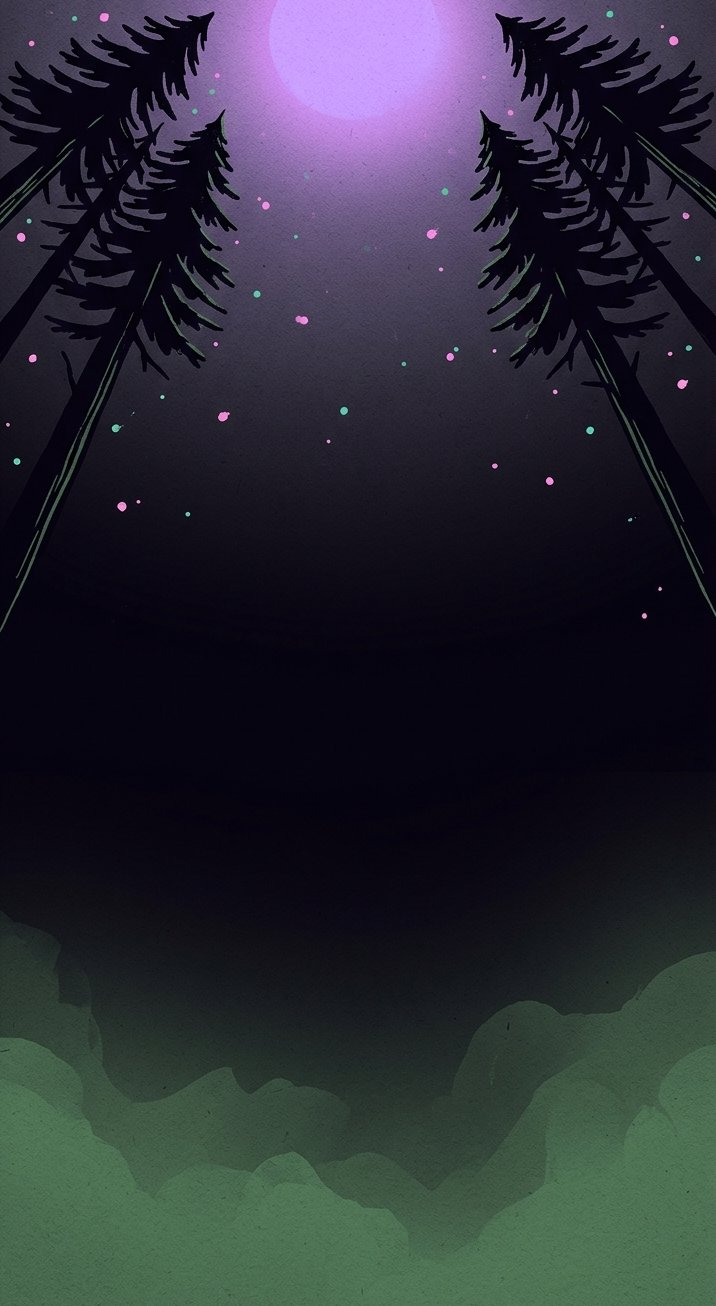
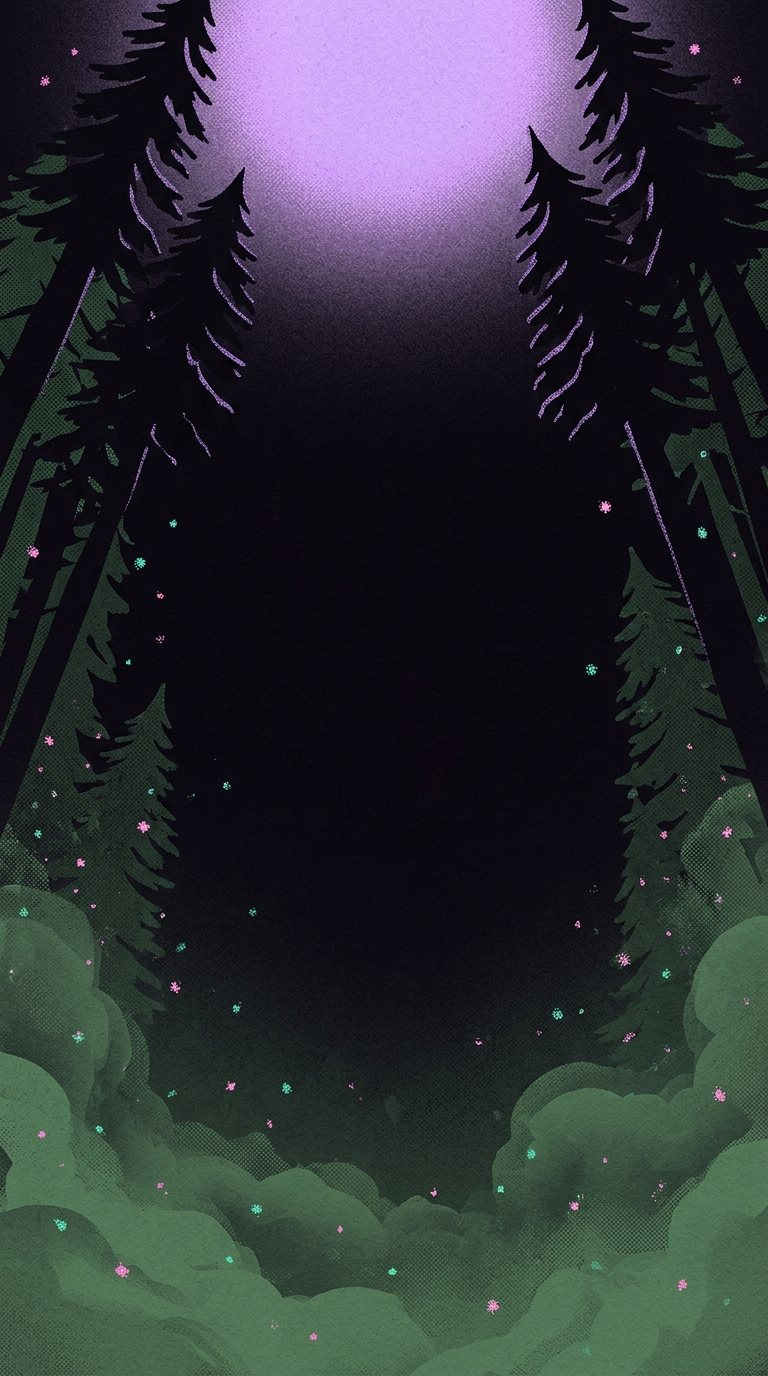
Add files via upload

diff --git a/index.html b/index.html
@@ -83,7 +83,7 @@
 
   .page { width: 100%; max-width: 440px; text-align: center; position: relative; z-index: 1; }
 
-  .vines { width: 100%; height: 46px; margin-bottom: 4px; opacity: 0.7; }
+  .vines { width: 100%; height: 46px; margin-bottom: 4px; opacity: 0.45; }
 
   /* ---------- centerpiece ---------- */
   .orb { position: relative; width: 168px; height: 168px; margin: 0 auto 20px; }
@@ -101,7 +101,6 @@
     animation: breathe 6s ease-in-out infinite;
   }
   .avatar img { width: 100%; height: 100%; object-fit: cover; }
-  .sigil { width: 74%; height: 74%; }
   @keyframes spin { to { transform: rotate(360deg); } }
   @keyframes breathe { 0%, 100% { box-shadow: inset 0 0 0 1px rgba(255,194,236,0.35), 0 0 30px 4px rgba(164,91,255,0.30), 0 10px 28px rgba(0,0,0,0.55); }
                        50% { box-shadow: inset 0 0 0 1px rgba(255,194,236,0.55), 0 0 46px 10px rgba(255,143,214,0.32), 0 10px 28px rgba(0,0,0,0.55); } }
@@ -142,7 +141,7 @@
     flex-shrink: 0; width: 52px; height: 52px; border-radius: 14px;
     display: flex; flex-direction: column; align-items: center; justify-content: center;
     background: rgba(63,107,74,0.35); border: 1px solid rgba(143,255,176,0.25);
-    font-size: 10px; font-weight: 700; letter-spacing: 0.12em; color: #a8ffc4; line-height: 1.3;
+    font-size: 13px; font-weight: 700; letter-spacing: 0.12em; color: #a8ffc4; line-height: 1.3;
   }
   .show .what { flex: 1; min-width: 0; }
   .show .kicker { display: block; font-size: 11px; font-weight: 700; letter-spacing: 0.16em; color: var(--electric); }
@@ -170,10 +169,13 @@
   a.link-card:hover .arrow { transform: translateX(4px); opacity: 0.9; }
 
   /* ---------- flyer art ---------- */
-  .flyer { display: block; margin: 26px auto 0; padding: 10px; text-decoration: none; transform: rotate(-1.5deg); transition: transform 0.3s ease; }
-  .flyer:hover { transform: rotate(0deg) scale(1.01); }
-  .flyer img { display: block; width: 100%; border-radius: 10px; }
-  .flyer span { display: block; margin-top: 8px; font-family: var(--sans); font-size: 11px; letter-spacing: 0.16em; text-transform: uppercase; color: var(--text-sub); }
+  .flyer { display: flex; align-items: center; gap: 14px; margin: 22px 0 0; padding: 12px 16px 12px 12px; text-decoration: none; text-align: left; font-family: var(--sans); transition: transform 0.2s ease, box-shadow 0.2s ease; }
+  .flyer:hover { transform: translateY(-2px); box-shadow: 0 0 26px rgba(255,143,214,0.25); }
+  .flyer img { display: block; width: 76px; height: 95px; object-fit: cover; border-radius: 8px; transform: rotate(-3deg); box-shadow: 0 6px 16px rgba(0,0,0,0.5); flex-shrink: 0; }
+  .flyer .what { flex: 1; }
+  .flyer .kicker { display: block; font-size: 11px; font-weight: 700; letter-spacing: 0.16em; color: var(--electric); }
+  .flyer strong { display: block; font-size: 16px; margin: 2px 0; color: var(--text-main); }
+  .flyer small { font-size: 13px; color: var(--fae-soft); }
 
   footer { margin-top: 36px; color: rgba(255,143,214,0.55); font-size: 13px; font-style: italic; }
   footer .credit { display: block; margin-top: 8px; font-style: normal; font-family: var(--sans); font-size: 11px; color: rgba(192,168,216,0.6); }
@@ -233,7 +235,7 @@
 
   <!-- Next show: change "Announcing soon" to the date + venue when there is one -->
   <div class="show glass">
-    <div class="date">NEXT<br>SHOW</div>
+    <div class="date">TBA</div>
     <div class="what">
       <span class="kicker">NEXT SHOW</span>
       <strong>Announcing soon</strong>
@@ -272,7 +274,11 @@
   <!-- Flyer art (upload flyer-violent-whimsy.jpg to the repo next to this file) -->
   <a class="flyer glass" href="flyer-violent-whimsy.jpg" target="_blank" rel="noopener">
     <img src="flyer-violent-whimsy.jpg" alt="Violent Whimsy flyer art for Mahalo Wubz" loading="lazy">
-    <span>flyer art &middot; violent whimsy</span>
+    <span class="what">
+      <span class="kicker">FLYER ART</span>
+      <strong>Violent Whimsy</strong>
+      <small>View full flyer &rarr;</small>
+    </span>
   </a>
 
   <!-- ============ END EDIT SECTION ============ -->
